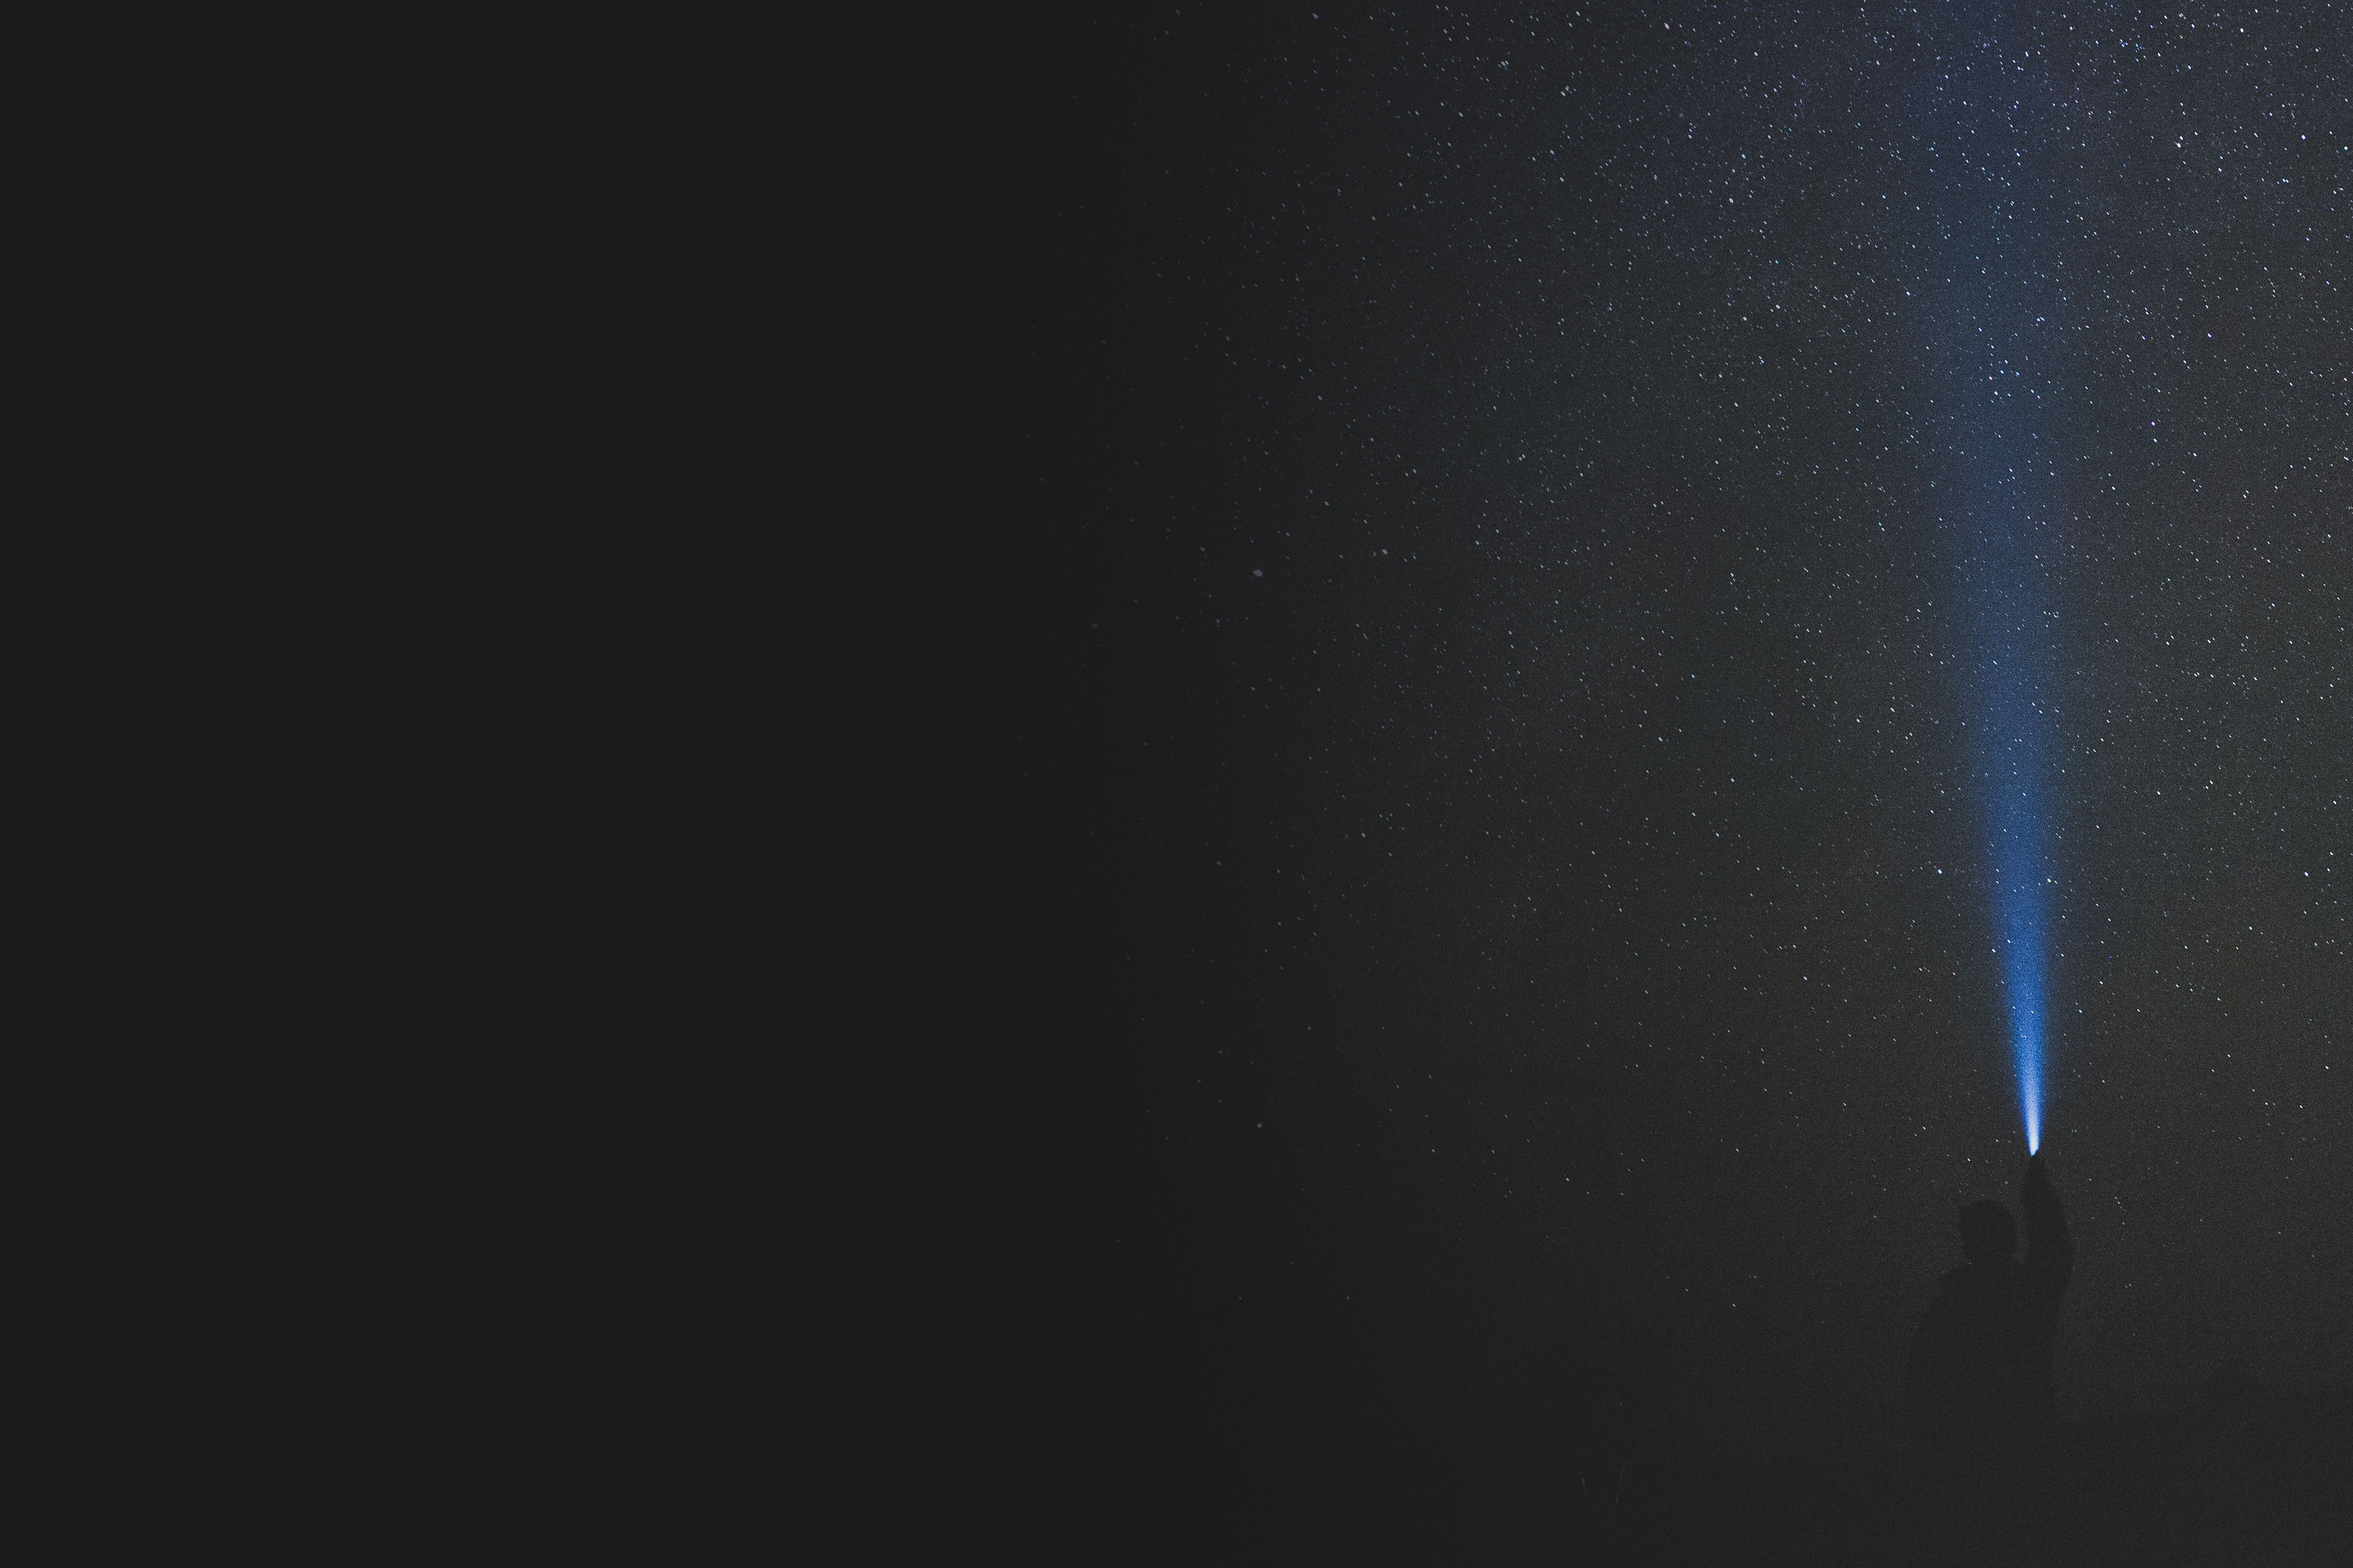
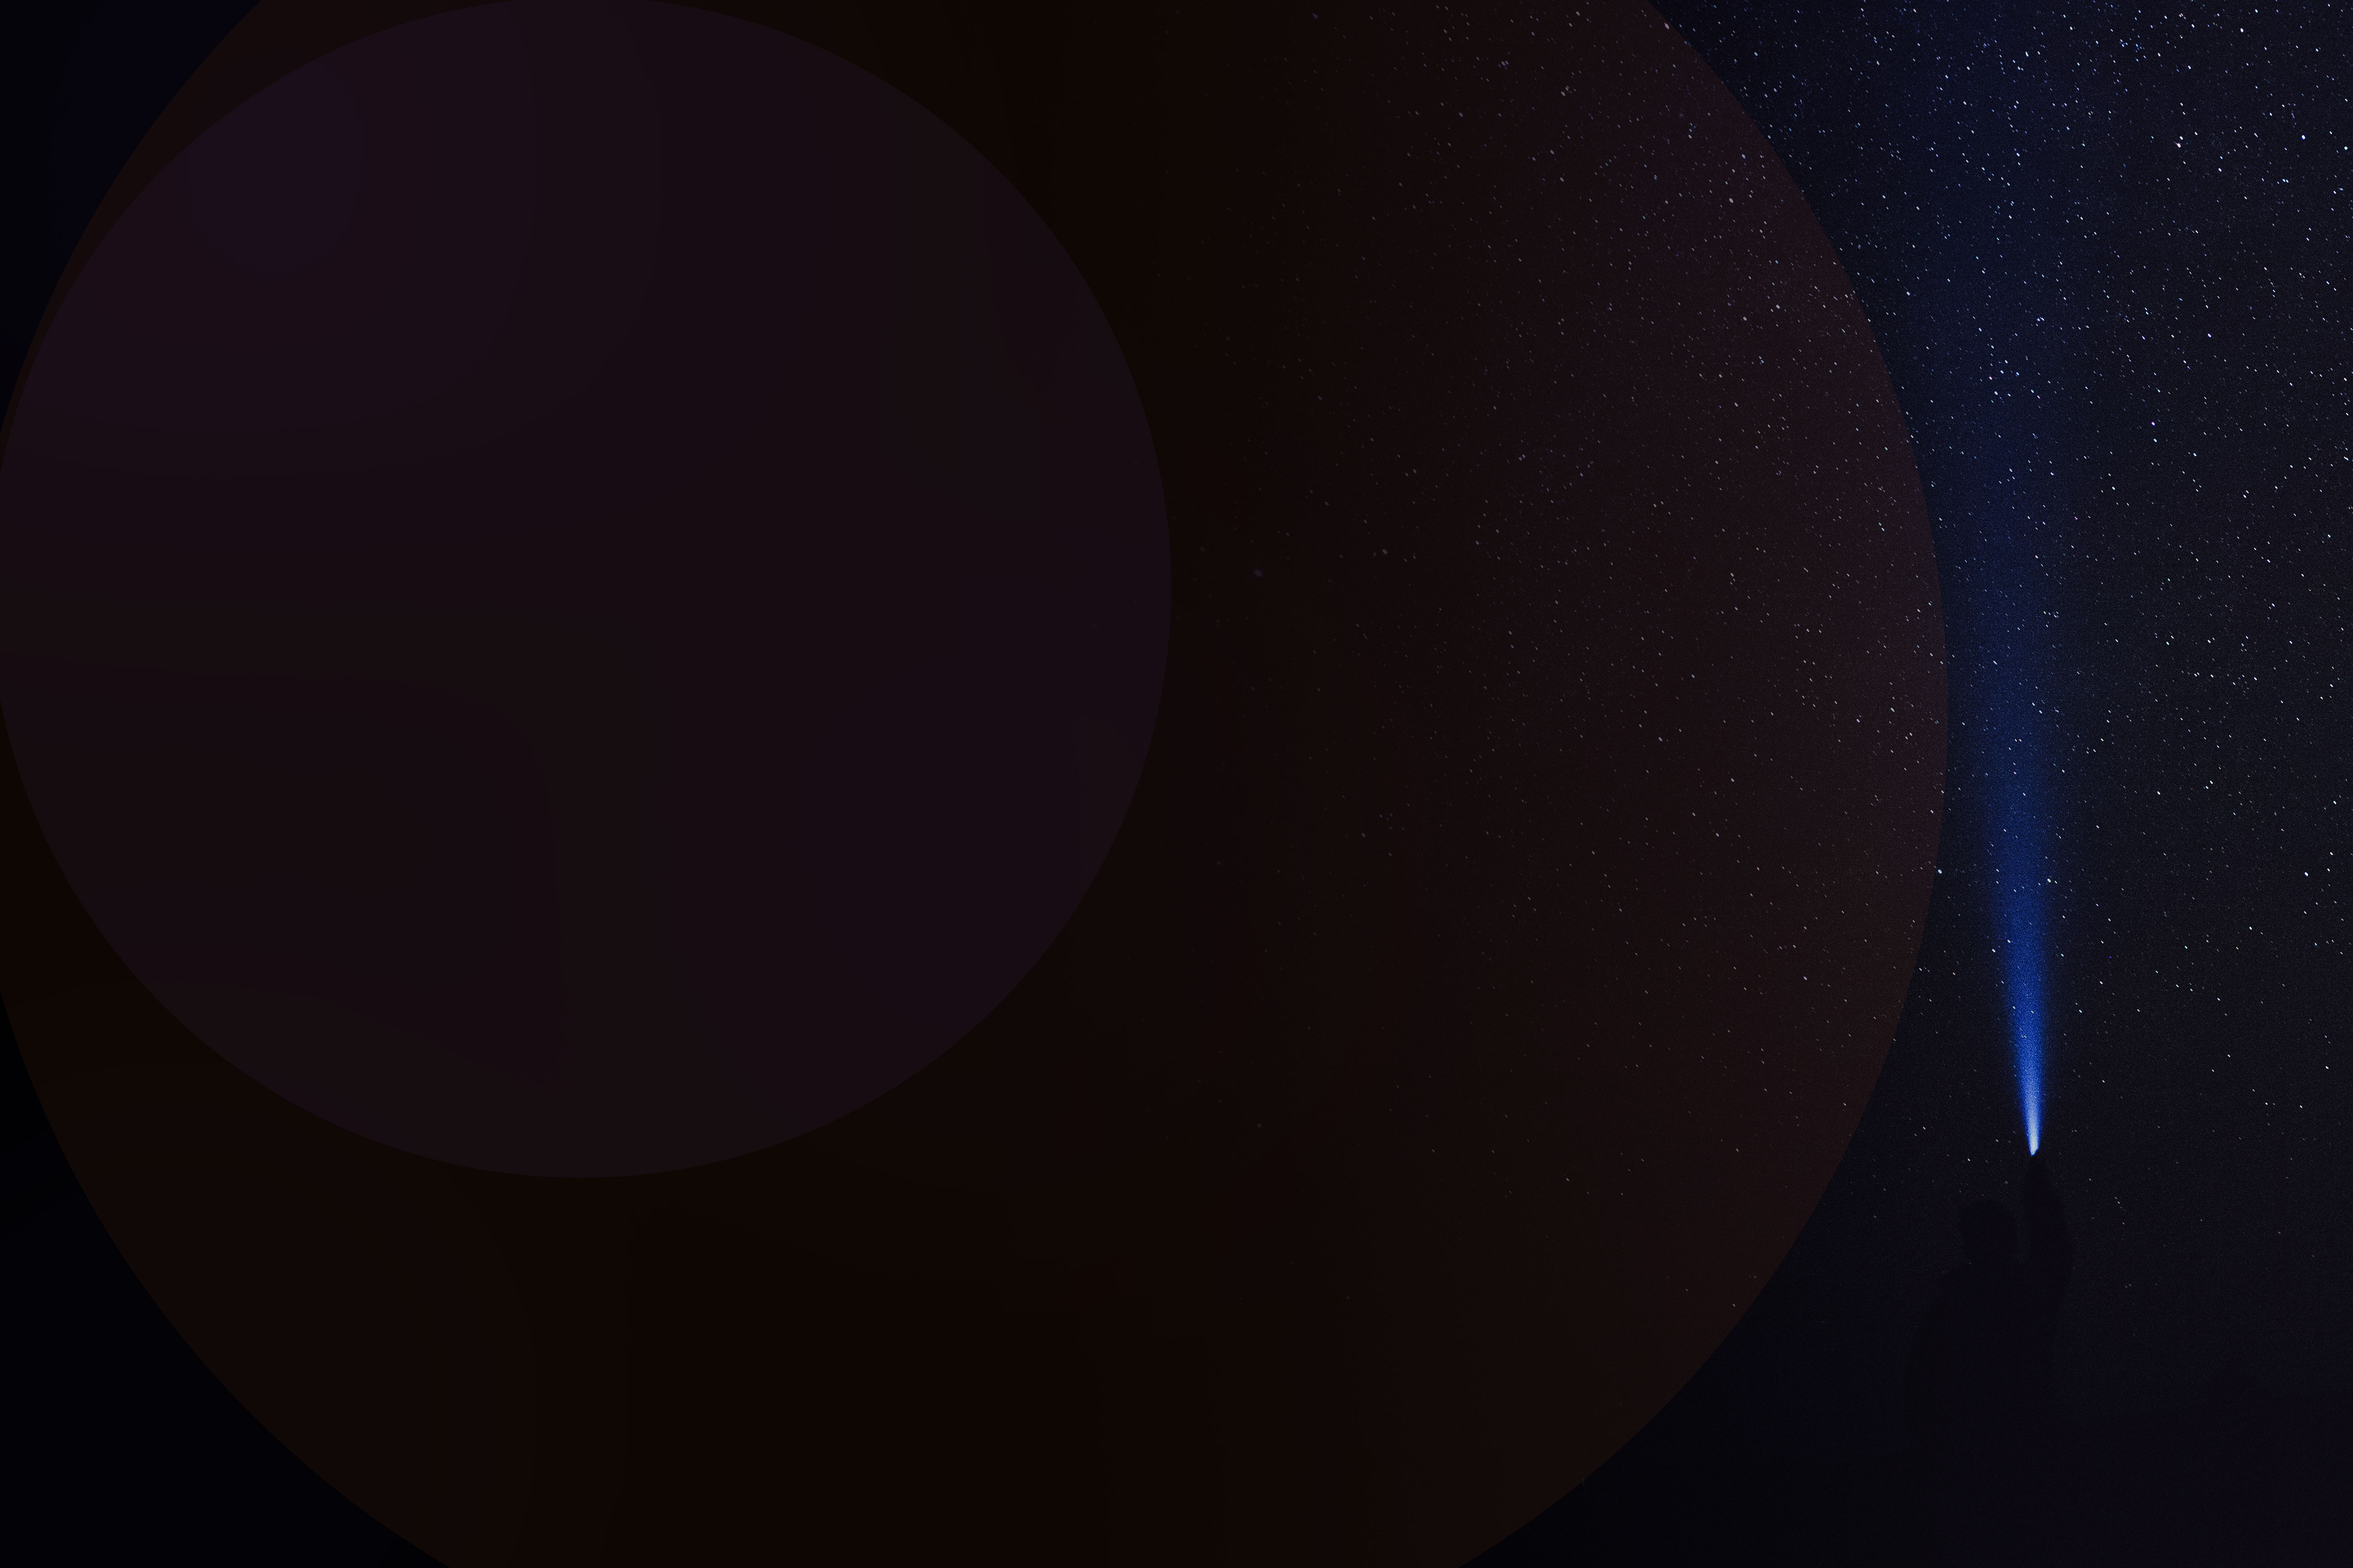
changed background images to pages + added welcome paragraph to homepage

diff --git a/src/App.js b/src/App.js
@@ -5,6 +5,7 @@ import NavBar from './navbar';
 import Welcome from './welcome';
 import AboutMe from './about';
 import Contact from './contact';
+import Footer from './footer';
 
 import './App.css';
 
@@ -24,7 +25,7 @@ class App extends React.Component {
 					<Route exact path="/me" component={() => <AboutMe />} />
 					<Route exact path="/contact" component={() => <Contact />} />
 				</div>
-				<div className="footer">footer</div>
+				<Footer />
 			</div>
 		);
 	}

diff --git a/src/welcome.js b/src/welcome.js
@@ -1,10 +1,16 @@
 import React from 'react';
 
+import './welcome.css';
+
 export default function Welcome() {
 	return (
 		<div className="welcome">
-			<p className="written">Stuff written</p>
-			Stuff
+			<p className="written">Hello,</p>
+			<div className="written-body">
+				<p>My name is Shelly. I am a Full Stack Developer.</p>
+				<p>Thank you for visitng my virtual self-portrait.</p>
+				<p>Enjoy your stay.</p>
+			</div>
 		</div>
 	);
 }

diff --git a/src/footer.js b/src/footer.js
@@ -1,0 +1,20 @@
+import React from 'react';
+
+export default function Footer(props) {
+	return (
+		<div className="footer">
+			<p>Created by: Shelly</p>
+			<ul>
+				<li>
+					<a href="https://twitter.com/le__she">Twitter</a>
+				</li>
+				<li>
+					<a href="https://www.linkedin.com/in/le-she/">LinkedIn</a>
+				</li>
+				<li>
+					<a href="https://github.com/pondaholic">Github</a>
+				</li>
+			</ul>
+		</div>
+	);
+}

diff --git a/src/App.css b/src/App.css
@@ -9,7 +9,7 @@
 	display: grid;
 	justify-content: center;
 	grid-template-columns: 0.5fr 4fr 3fr 0.5fr;
-	grid-template-rows: 1fr 650px 50px;
+	grid-template-rows: 50px 650px 80px;
 	grid-template-areas:
 		'. header navbar .'
 		'. body body .'
@@ -35,11 +35,6 @@ h1 {
 h1 a {
 	color: white;
 	text-decoration: none;
-}
-
-.written {
-	grid-area: paragraph;
-	color: white;
 }
 
 .body {

diff --git a/src/welcome.css b/src/welcome.css
@@ -1,0 +1,23 @@
+.welcome {
+	display: flex;
+	flex-direction: column;
+	margin: 250px auto;
+}
+
+.welcome p {
+	margin-bottom: 10px;
+}
+
+.written {
+	font-size: 18px;
+	color: white;
+	margin-left: 40px;
+}
+
+.written-body p {
+	font-size: 18px;
+	color: white;
+	margin-left: 75px;
+	margin-top: 5px;
+	text-align: left;
+}

diff --git a/src/about.css b/src/about.css
@@ -4,7 +4,7 @@
 	color: white;
 	display: grid;
 	height: 650px;
-	grid-template-rows: 10% 1fr;
+	grid-template-rows: 20% 1fr;
 	grid-template-columns: 75% 1fr;
 	grid-template-areas:
 		'h2 .'
@@ -30,6 +30,5 @@
 
 h2 {
 	grid-area: h2;
-	justify-self: center;
 	margin: auto;
 }

diff --git a/src/footer.css b/src/footer.css
@@ -1,0 +1,13 @@
+.footer {
+	display: flex;
+	flex-direction: row;
+}
+
+.footer p {
+	margin: auto;
+	text-align: center;
+}
+
+.footer ul {
+	float: left;
+}
